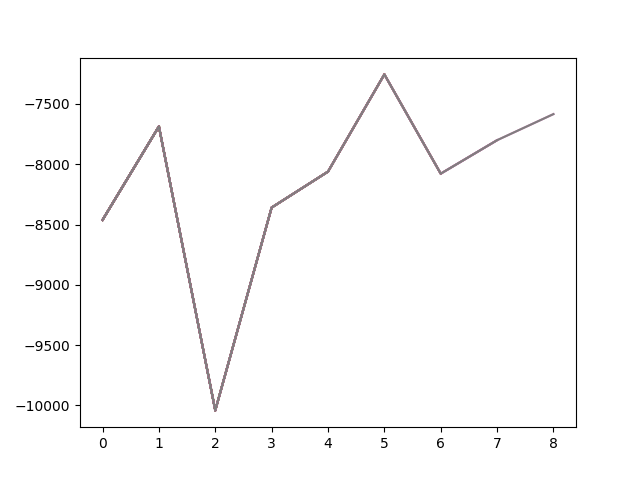
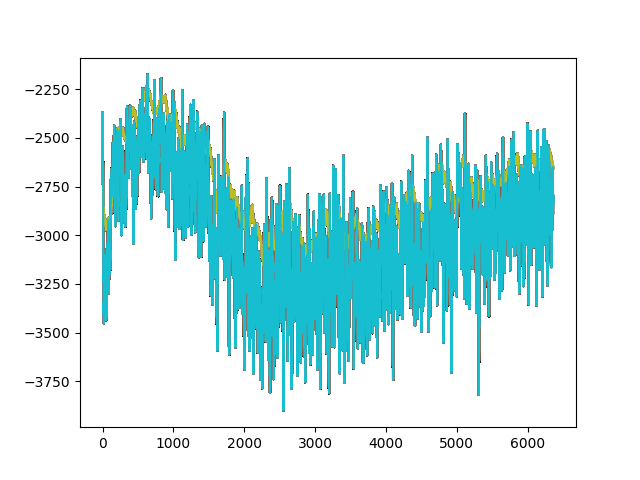
still no big imporvement

diff --git a/main.py b/main.py
@@ -27,7 +27,7 @@ while roundNum < 10000:
     allRewards = 0
     visited = set()
     print("Round:", roundNum, "Epsilon:", agent.epsilon)
-    for i in range(1000):
+    for i in range(100):
         m.move_direction(agent.act(m.getGrid()))
         if roundNum % 10 == 0:
             m.displayBase()